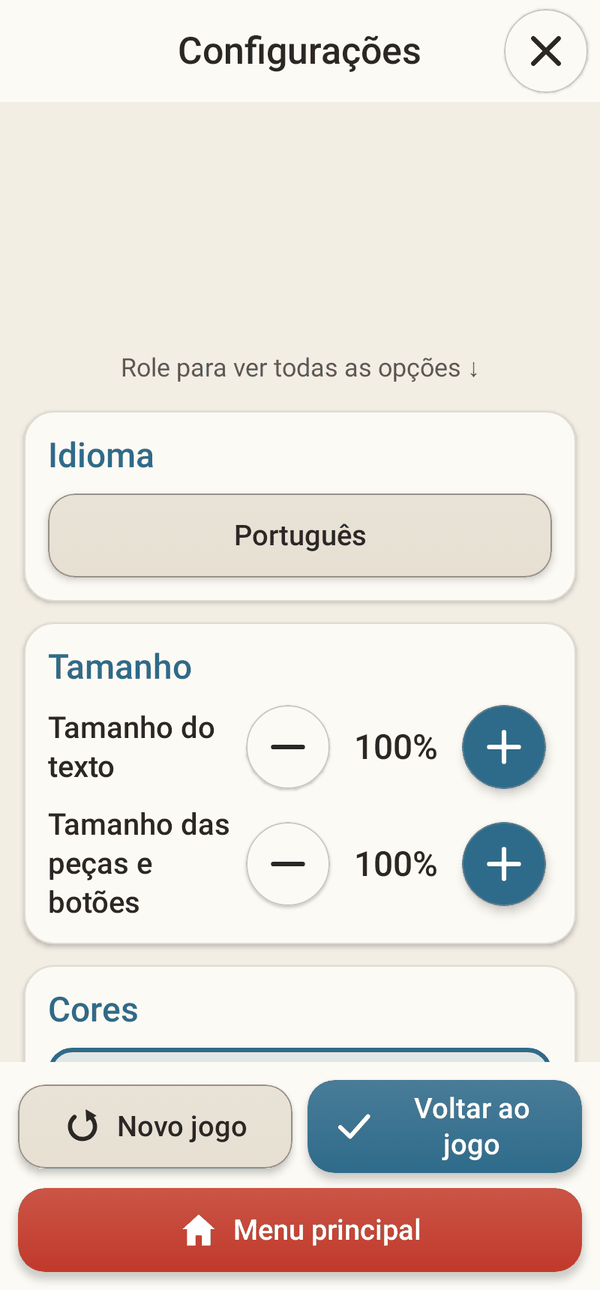
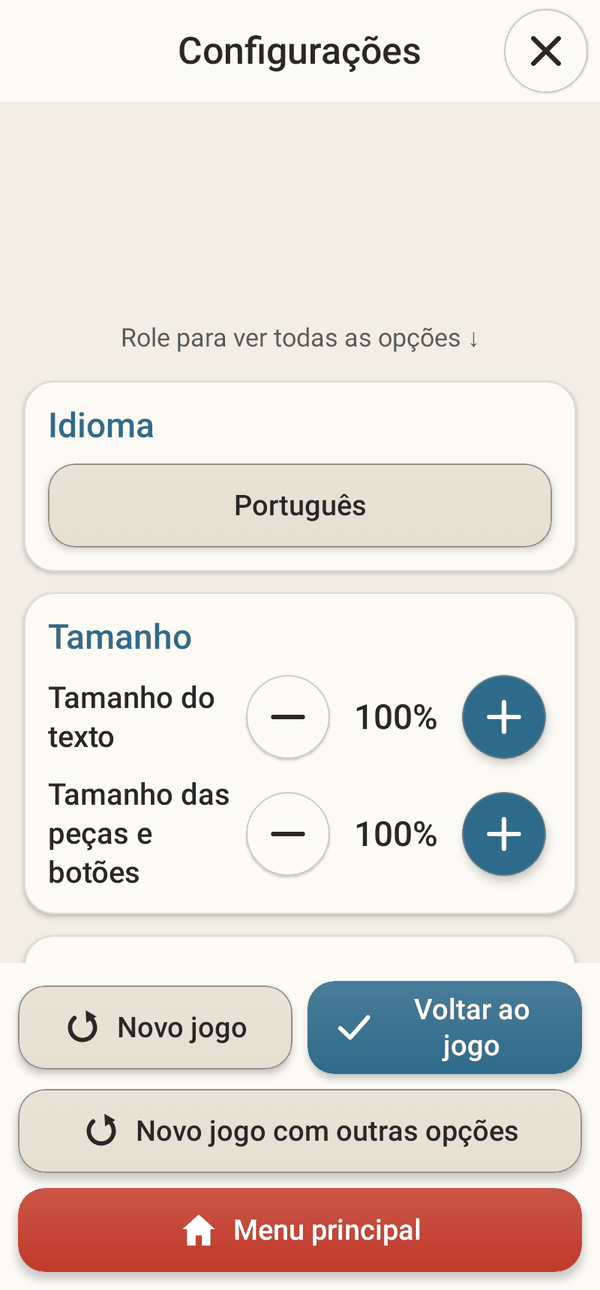
feat(ui): start a new game with other options from inside the game
The settings opened during a game, and the dialog at the end of a game,
get a "New game, other options" button. It asks first, like "New game",
then goes straight to the game's own rules, level and table choices (the
last ones preselected), without the main menu.

Changed region(s): [[0.03, 0.2481, 0.99, 0.9302]]

diff --git a/app/src/main/java/io/github/fershibli/megagames/ui/screens/SettingsScreen.kt b/app/src/main/java/io/github/fershibli/megagames/ui/screens/SettingsScreen.kt
@@ -70,8 +70,11 @@ import io.github.fershibli.megagames.ui.theme.Palette
 import kotlin.math.roundToInt
 
 /** Extra actions shown when Settings is opened from inside a game. */
-/** Buttons shown when the settings are opened during a game. Without [onNewGame] (pastimes) nothing can be lost, so leaving asks nothing. */
-class InGameActions(val onResume: () -> Unit, val onNewGame: (() -> Unit)?, val onMainMenu: () -> Unit)
+/**
+ * Buttons shown when the settings are opened during a game. Without [onNewGame] (pastimes) nothing can be lost, so leaving asks nothing.
+ * [onNewOptions] starts a new game of the same game choosing its rules, level and table again, without the main menu.
+ */
+class InGameActions(val onResume: () -> Unit, val onNewGame: (() -> Unit)?, val onNewOptions: (() -> Unit)? = null, val onMainMenu: () -> Unit)
 
 const val PROJECT_URL = "https://github.com/fershibli/game-mega-app"
 
@@ -120,6 +123,7 @@ fun SettingsScreen(
     val left = LocalSettings.current.leftHanded
     var confirmExit by remember { mutableStateOf(false) }
     var confirmNew by remember { mutableStateOf(false) }
+    var confirmOptions by remember { mutableStateOf(false) }
     var pickLanguage by remember { mutableStateOf(false) }
     var showMission by remember { mutableStateOf(false) }
 
@@ -240,6 +244,9 @@ fun SettingsScreen(
                         BigButton(stringResource(R.string.new_game), { confirmNew = true }, icon = AppIcon.NEW_GAME, style = ButtonStyle.SECONDARY)
                     }
                 }
+                if (inGame.onNewOptions != null) {
+                    BigButton(stringResource(R.string.new_game_options), { confirmOptions = true }, Modifier.fillMaxWidth(), icon = AppIcon.NEW_GAME, style = ButtonStyle.SECONDARY)
+                }
                 if (inGame.onNewGame != null) {
                     BigButton(stringResource(R.string.main_menu), { confirmExit = true }, Modifier.fillMaxWidth(), icon = AppIcon.HOME, style = ButtonStyle.DANGER)
                 } else {
@@ -276,6 +283,17 @@ fun SettingsScreen(
             buttons = listOf(
                 stringResource(R.string.leave_game_yes) to { confirmExit = false; inGame.onMainMenu() },
                 stringResource(R.string.cancel) to { confirmExit = false },
+            ),
+        )
+    }
+    if (confirmOptions && inGame != null) {
+        BigDialog(
+            title = stringResource(R.string.new_game_title),
+            message = stringResource(R.string.new_game_message),
+            onDismiss = { confirmOptions = false },
+            buttons = listOf(
+                stringResource(R.string.new_game_options) to { confirmOptions = false; inGame.onNewOptions?.invoke() },
+                stringResource(R.string.cancel) to { confirmOptions = false },
             ),
         )
     }

diff --git a/app/src/test/java/io/github/fershibli/megagames/AppFlowTest.kt b/app/src/test/java/io/github/fershibli/megagames/AppFlowTest.kt
@@ -31,6 +31,7 @@ import androidx.compose.ui.test.junit4.createComposeRule
 import androidx.compose.ui.test.onAllNodesWithContentDescription
 import androidx.compose.ui.test.onAllNodesWithText
 import androidx.compose.ui.test.onFirst
+import androidx.compose.ui.test.onLast
 import androidx.compose.ui.test.onNodeWithContentDescription
 import androidx.compose.ui.test.onNodeWithTag
 import androidx.compose.ui.test.onNodeWithText
@@ -189,6 +190,26 @@ class AppFlowTest {
         rule.onNodeWithText("Main menu").performClick()
         rule.onNodeWithText("Yes, leave the game").performClick()
         rule.onNodeWithText("Choose your game").assertIsDisplayed()
+        Thread.sleep(100)
+        assertNull(saves.load())
+    }
+
+    @Test
+    fun aNewGameWithOtherOptionsGoesBackToTheChoicesWithoutTheMenu() {
+        val saves = SaveStore(app).also { it.clear() }
+        SettingsStore(app).save(Settings())
+        rule.setContent { MegaGamesApp(SettingsStore(app), saves, offerResume = true) }
+        rule.onAllNodes(hasScrollAction()).onFirst().performScrollToNode(hasContentDescription("Reversi"))
+        rule.onAllNodesWithContentDescription("Reversi")[0].performClick()
+        rule.onNodeWithText("Confirm").performClick()
+        rule.waitUntil(10_000) { rule.onAllNodesWithText("Your turn", substring = true).fetchSemanticsNodes().isNotEmpty() }
+        rule.onNodeWithContentDescription("Settings").performClick()
+        rule.onNodeWithText("New game, other options").performClick()
+        // The game in progress is lost, so it asks first.
+        rule.onAllNodesWithText("New game, other options").onLast().performClick()
+        // Straight to Reversi's own choices, not the main menu.
+        rule.onNodeWithText("How do you want to play?").assertIsDisplayed()
+        assertEquals(0, rule.onAllNodesWithText("Choose your game").fetchSemanticsNodes().size)
         Thread.sleep(100)
         assertNull(saves.load())
     }

diff --git a/app/src/main/java/io/github/fershibli/megagames/ui/screens/GameScreen.kt b/app/src/main/java/io/github/fershibli/megagames/ui/screens/GameScreen.kt
@@ -54,6 +54,8 @@ fun GameScreen(
     variant: GameVariant? = game.variant(saved?.variant),
     setup: PlaySetup = saved?.setup ?: PlaySetup(),
     language: AppLanguage? = null,
+    /** Starts a new game of [game] choosing its options again (null: the game has none to choose). */
+    onNewOptions: (() -> Unit)? = null,
 ) {
     // Pastimes (no difficulty: a pet, a farm) keep their own lasting world: no autosave, no "new game".
     val lasting = !game.hasDifficulty
@@ -86,7 +88,9 @@ fun GameScreen(
         if (showSettings) {
             SettingsScreen(
                 settings, onSettingsChange, onClose = { showSettings = false },
-                inGame = InGameActions(onResume = { showSettings = false }, onNewGame = newGame.takeUnless { lasting }, onMainMenu = onExit),
+                inGame = InGameActions(onResume = { showSettings = false }, onNewGame = newGame.takeUnless { lasting }, onMainMenu = onExit,
+                    onNewOptions = onNewOptions.takeUnless { lasting },
+                ),
             )
         }
     }
@@ -111,8 +115,9 @@ fun GameScreen(
             else listOfNotNull(stringResource(if (result.won) R.string.win_message else R.string.lose_message), result.detail).joinToString("\n\n"),
             onDismiss = {},
             dismissible = false,
-            buttons = listOf(
+            buttons = listOfNotNull(
                 stringResource(R.string.play_again) to { newGame() },
+                onNewOptions?.let { stringResource(R.string.new_game_options) to it },
                 stringResource(R.string.main_menu) to onExit,
             ),
         )

diff --git a/app/src/test/java/io/github/fershibli/megagames/ScreenshotTest.kt b/app/src/test/java/io/github/fershibli/megagames/ScreenshotTest.kt
@@ -120,7 +120,7 @@ class ScreenshotTest {
     }
     @Test fun settings() = shot("settings") { SettingsScreen(Settings(), {}, {}, null) }
     @Test fun settingsInGamePt() = shot("settings_in_game_pt", Settings(language = io.github.fershibli.megagames.core.AppLanguage.PORTUGUESE)) {
-        SettingsScreen(Settings(language = io.github.fershibli.megagames.core.AppLanguage.PORTUGUESE), {}, {}, InGameActions({}, {}, {}))
+        SettingsScreen(Settings(language = io.github.fershibli.megagames.core.AppLanguage.PORTUGUESE), {}, {}, InGameActions({}, {}, {}, {}))
     }
     @Test fun missionPt() = shot("mission_pt", Settings(language = io.github.fershibli.megagames.core.AppLanguage.PORTUGUESE)) { io.github.fershibli.megagames.ui.screens.MissionDialog {} }
     @Test fun resumeDialog() = shot("resume_dialog") {

diff --git a/app/src/main/java/io/github/fershibli/megagames/ui/MegaGamesApp.kt b/app/src/main/java/io/github/fershibli/megagames/ui/MegaGamesApp.kt
@@ -195,6 +195,11 @@ fun MegaGamesApp(
                         if (s.game.hasDifficulty) saveStore.clear()
                         screen = Screen.Home
                     },
+                    // Back to the rules / level / table choice of the same game, the last choices preselected.
+                    onNewOptions = {
+                        saveStore.clear()
+                        open(s.game, s.language)
+                    }.takeIf { s.game.hasDifficulty || s.game.variants.isNotEmpty() },
                 )
             }
             askLanguage?.let { (game, choices) ->

diff --git a/CHANGELOG.md b/CHANGELOG.md
@@ -5,6 +5,7 @@ All notable changes to this project are documented here. The format follows [Kee
 ## [2.0.0] - Unreleased
 
 ### Added
+- **New game, other options**: from the settings during a game, or when a game ends, start the same game again choosing its rules, level and table, without going back to the main menu.
 - **Buraco for three to six**: three or four each for themselves, four in pairs, and six in three pairs or two teams of three (three decks for the bigger tables). The table screen shows the teams in colors, and the scores of every side are kept on top.
 - **Nonogram** (paint by numbers) on 5×5, 10×10 and 15×15 grids: more than 20 hand-drawn pictures for each size (animals, flowers, a house, a teapot...), revealed in color with their name, every one solvable line by line. Tap to paint, hold or **Mark** for ✕, drag to paint a line; finished lines dim, Undo and Hint.
 - **Kakuro**, the crossword of numbers, on three grid sizes: every puzzle has one solution found by reasoning alone. Notes, Undo, and a Hint that first shows the combinations that make the sums.
